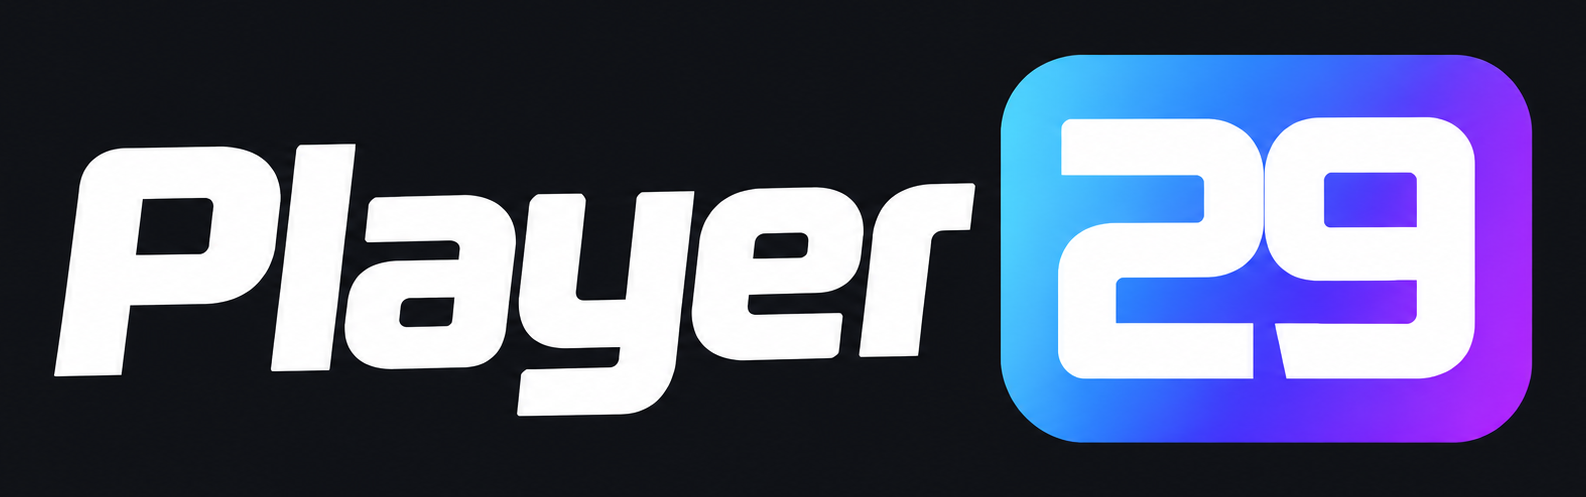
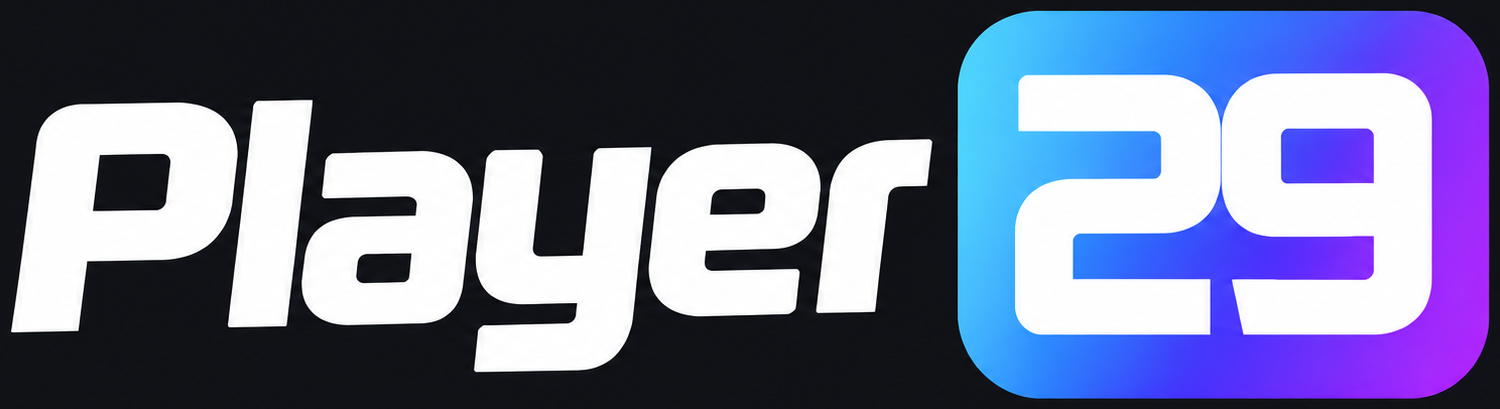
fix: knock out opaque wordmark canvas in header and footer
Use mix-blend multiply/lighten inside an isolated surface so the
supplied RGB plate disappears without redrawing or flood-filling
the 29 gradient. Crop leftover empty canvas on the live wordmarks.

Changed region(s): [[0.0, 0.0, 1.0, 0.9976]]

diff --git a/src/components/layout/header.tsx b/src/components/layout/header.tsx
@@ -61,22 +61,17 @@ export function Header({
       ref={headerRef}
       data-over-dark={overDark ? "true" : "false"}
       className={cn(
-        "sticky top-0 z-50 border-b backdrop-blur-[8px] motion-reduce:transition-none",
+        "sticky top-0 z-50 isolate border-b motion-reduce:transition-none",
         "transition-[background-color,border-color,box-shadow] duration-200",
         overDark
-          ? "border-white/12 bg-ink/92 text-white"
+          ? "border-white/12 bg-ink text-white"
           : scrolled
-            ? "border-ink/10 bg-white/88 text-ink shadow-[0_1px_0_rgba(17,19,24,0.04)]"
-            : "border-transparent bg-white/88 text-ink",
+            ? "border-ink/10 bg-white text-ink shadow-[0_1px_0_rgba(17,19,24,0.04)]"
+            : "border-transparent bg-white text-ink",
       )}
     >
       <div className="container-site flex h-16 items-center justify-between gap-4 md:h-[4.5rem]">
-        <span className="md:hidden">
-          <Logo variant={overDark ? "dark" : "light"} compact stacked priority />
-        </span>
-        <span className="hidden md:inline-flex">
-          <Logo variant={overDark ? "dark" : "light"} stacked priority />
-        </span>
+        <Logo variant={overDark ? "dark" : "light"} stacked priority />
 
         <nav aria-label="Primary" className="hidden items-center gap-8 lg:flex">
           {navigation.map((item) => (

diff --git a/src/components/brand/logo.tsx b/src/components/brand/logo.tsx
@@ -7,14 +7,14 @@ const wordmarks = {
   light: {
     src: "/brand/player29-wordmark-light-badge.png",
     alt: "Player29",
-    width: 1662,
-    height: 525,
+    width: 1580,
+    height: 438,
   },
   dark: {
     src: "/brand/player29-wordmark-dark.png",
     alt: "Player29",
-    width: 1586,
-    height: 497,
+    width: 1500,
+    height: 409,
   },
 } as const;
 
@@ -69,8 +69,8 @@ function Mark({
       className={cn(
         "col-start-1 row-start-1",
         compact ? "h-8 w-auto md:h-9" : "h-7 w-auto md:h-8",
+        !compact && (variant === "dark" ? "mix-blend-lighten" : "mix-blend-multiply"),
         hidden && "pointer-events-none opacity-0",
-        "transition-opacity duration-200 motion-reduce:transition-none",
         className,
       )}
     />

diff --git a/src/components/layout/footer.tsx b/src/components/layout/footer.tsx
@@ -23,7 +23,7 @@ export function Footer({ content }: { content: SiteContent }) {
   const socials = visibleSocials(content.chrome.socials);
 
   return (
-    <footer className="bg-ink text-white" data-header-tone="dark">
+    <footer className="isolate bg-ink text-white" data-header-tone="dark">
       <div className="container-site grid gap-10 py-14 md:grid-cols-12 md:gap-8 md:py-16">
         <div className="md:col-span-5">
           <Logo variant="dark" href="/" />

diff --git a/src/app/login/layout.tsx b/src/app/login/layout.tsx
@@ -11,6 +11,6 @@ export default function LoginLayout({
   children: ReactNode;
 }) {
   return (
-    <div className="flex min-h-full flex-1 flex-col bg-surface">{children}</div>
+    <div className="isolate flex min-h-full flex-1 flex-col bg-surface">{children}</div>
   );
 }

diff --git a/README.md b/README.md
@@ -154,15 +154,15 @@ Fill those fields when material is approved. Do not invent metrics, testimonials
 
 ## Logo and assets
 
-Brand files live in `public/brand/`. Compact P29 app marks are used for the favicon, Apple touch icon and the mobile header. Full wordmarks are used in the desktop header (light, with 29 badge) and footer (dark).
+Brand files live in `public/brand/`. Compact P29 app marks are used for the favicon, Apple touch icon and the mobile menu. Full wordmarks are used in the header (light or dark, with mix-blend knockout) and footer (dark).
 
 Uncropped supplied files are kept in `public/brand/originals/`. Live files in `public/brand/` are the same artwork with **empty canvas cropped only** so they scale at header height. Do not redraw the wordmark in CSS or approximate it with a font.
 
 ### Limitations of the supplied files
 
-- Wordmarks (`player29-wordmark-light.png`, `player29-wordmark-light-badge.png`, `player29-wordmark-dark.png`) are **opaque RGB canvases** (white or near-black), not transparent. They are placed on matching surfaces: light marks on the white header, the dark mark on the ink footer and Open Graph image. Do **not** run automatic background removal.
+- Wordmarks (`player29-wordmark-light.png`, `player29-wordmark-light-badge.png`, `player29-wordmark-dark.png`) are **opaque RGB canvases** (white or near-black), not transparent. Live CSS knocks the canvas out with `mix-blend-mode: multiply` on light surfaces and `mix-blend-mode: lighten` on dark surfaces, inside an `isolate` header/footer so the blend does not pick up the page behind. Do **not** run automatic background removal or a flood-fill — that fringes the 29 gradient.
 - Compact icons are rounded-square app icons. They include a pale or black fill; that fill is part of the artwork. Outer empty canvas was cropped; no alpha was invented.
-- Because the wordmarks are not transparent, they will show a rectangular plate if placed on a mismatched colour (for example a light wordmark on a photograph). Export transparent masters from source if you need them on mixed backgrounds.
+- Because the wordmarks are not transparent, they will show a rectangular plate if placed on a mismatched colour without the blend knockout (for example a light wordmark on a photograph). Export transparent masters from source if you need them on mixed photographic backgrounds.
 - The decorative 29 in the hero and closing section is a crop of the 29 badge from the supplied dark wordmark, still on its dark canvas, used only on dark surfaces.
 
 ## Important IP and content restrictions
